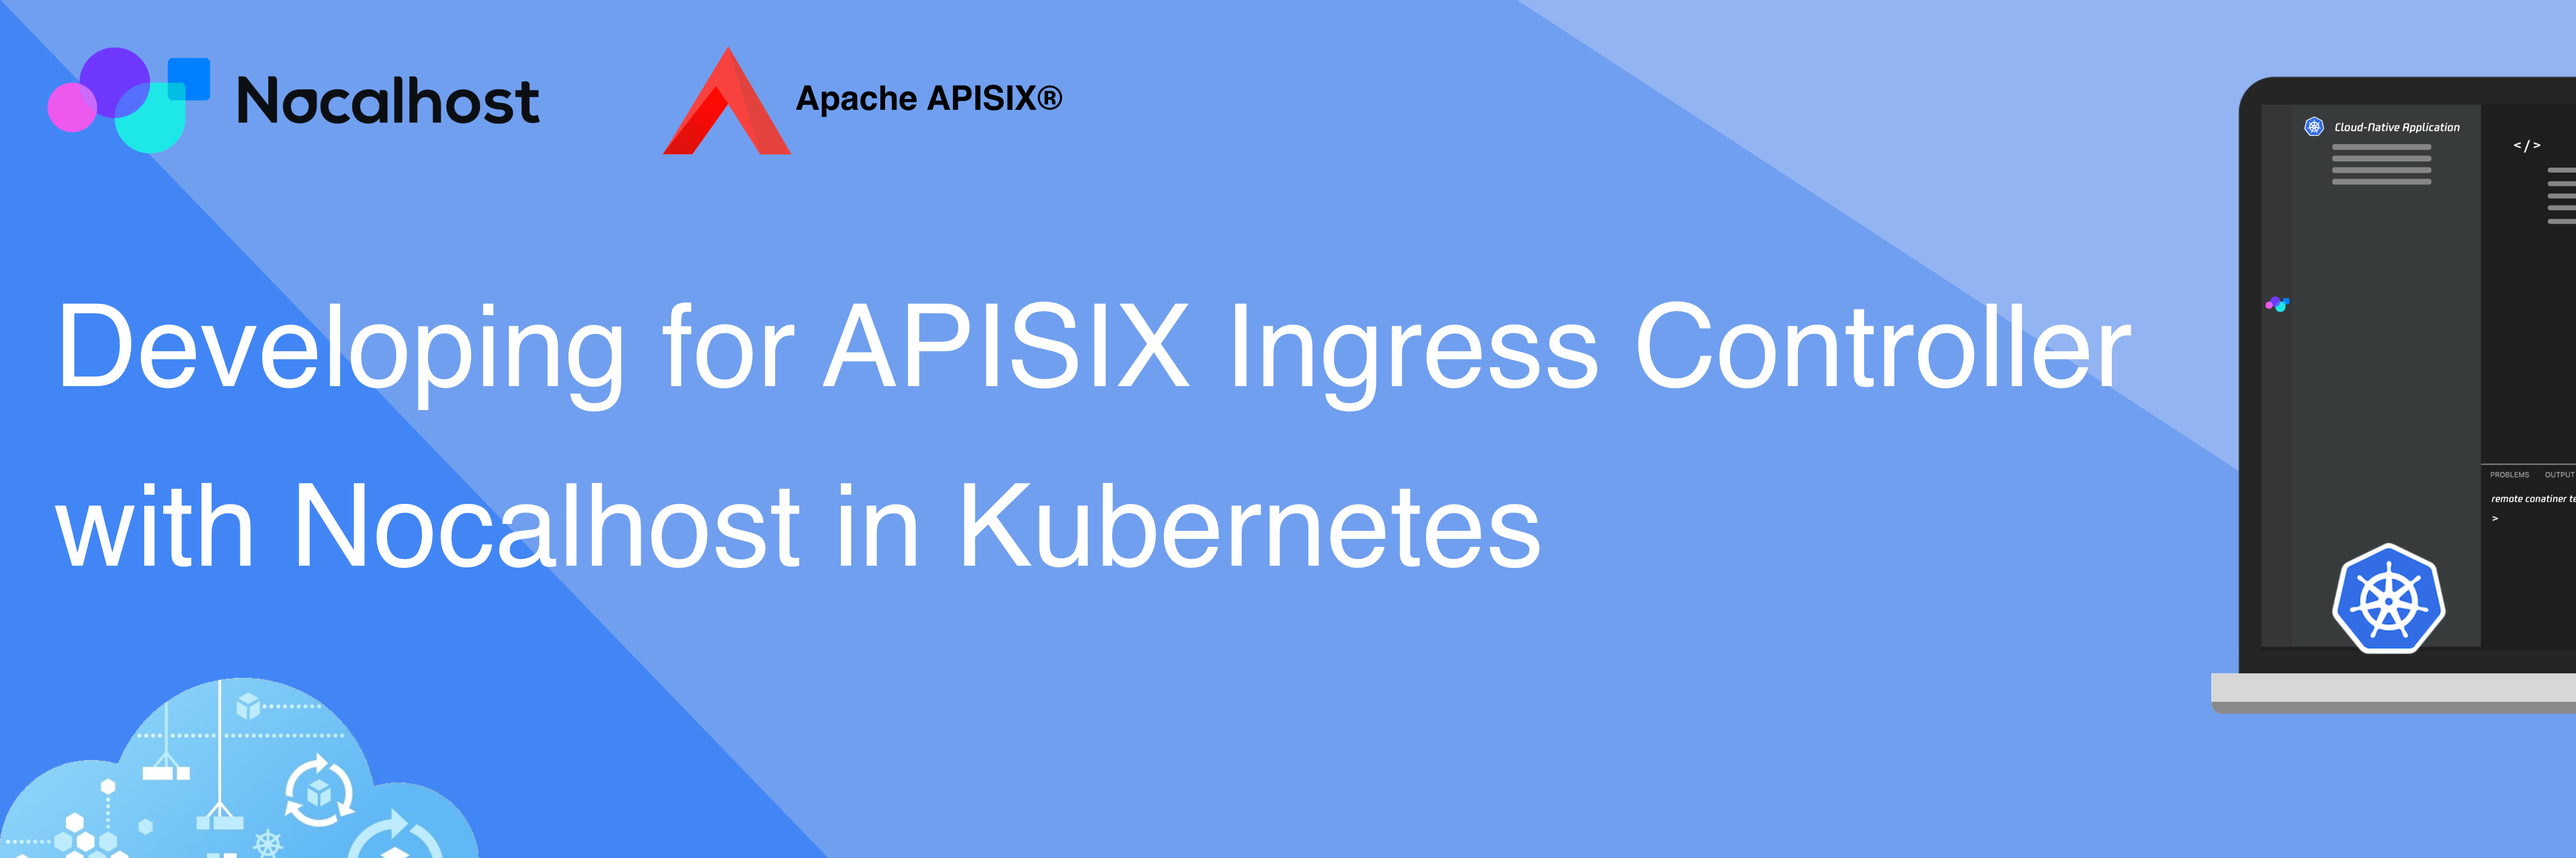
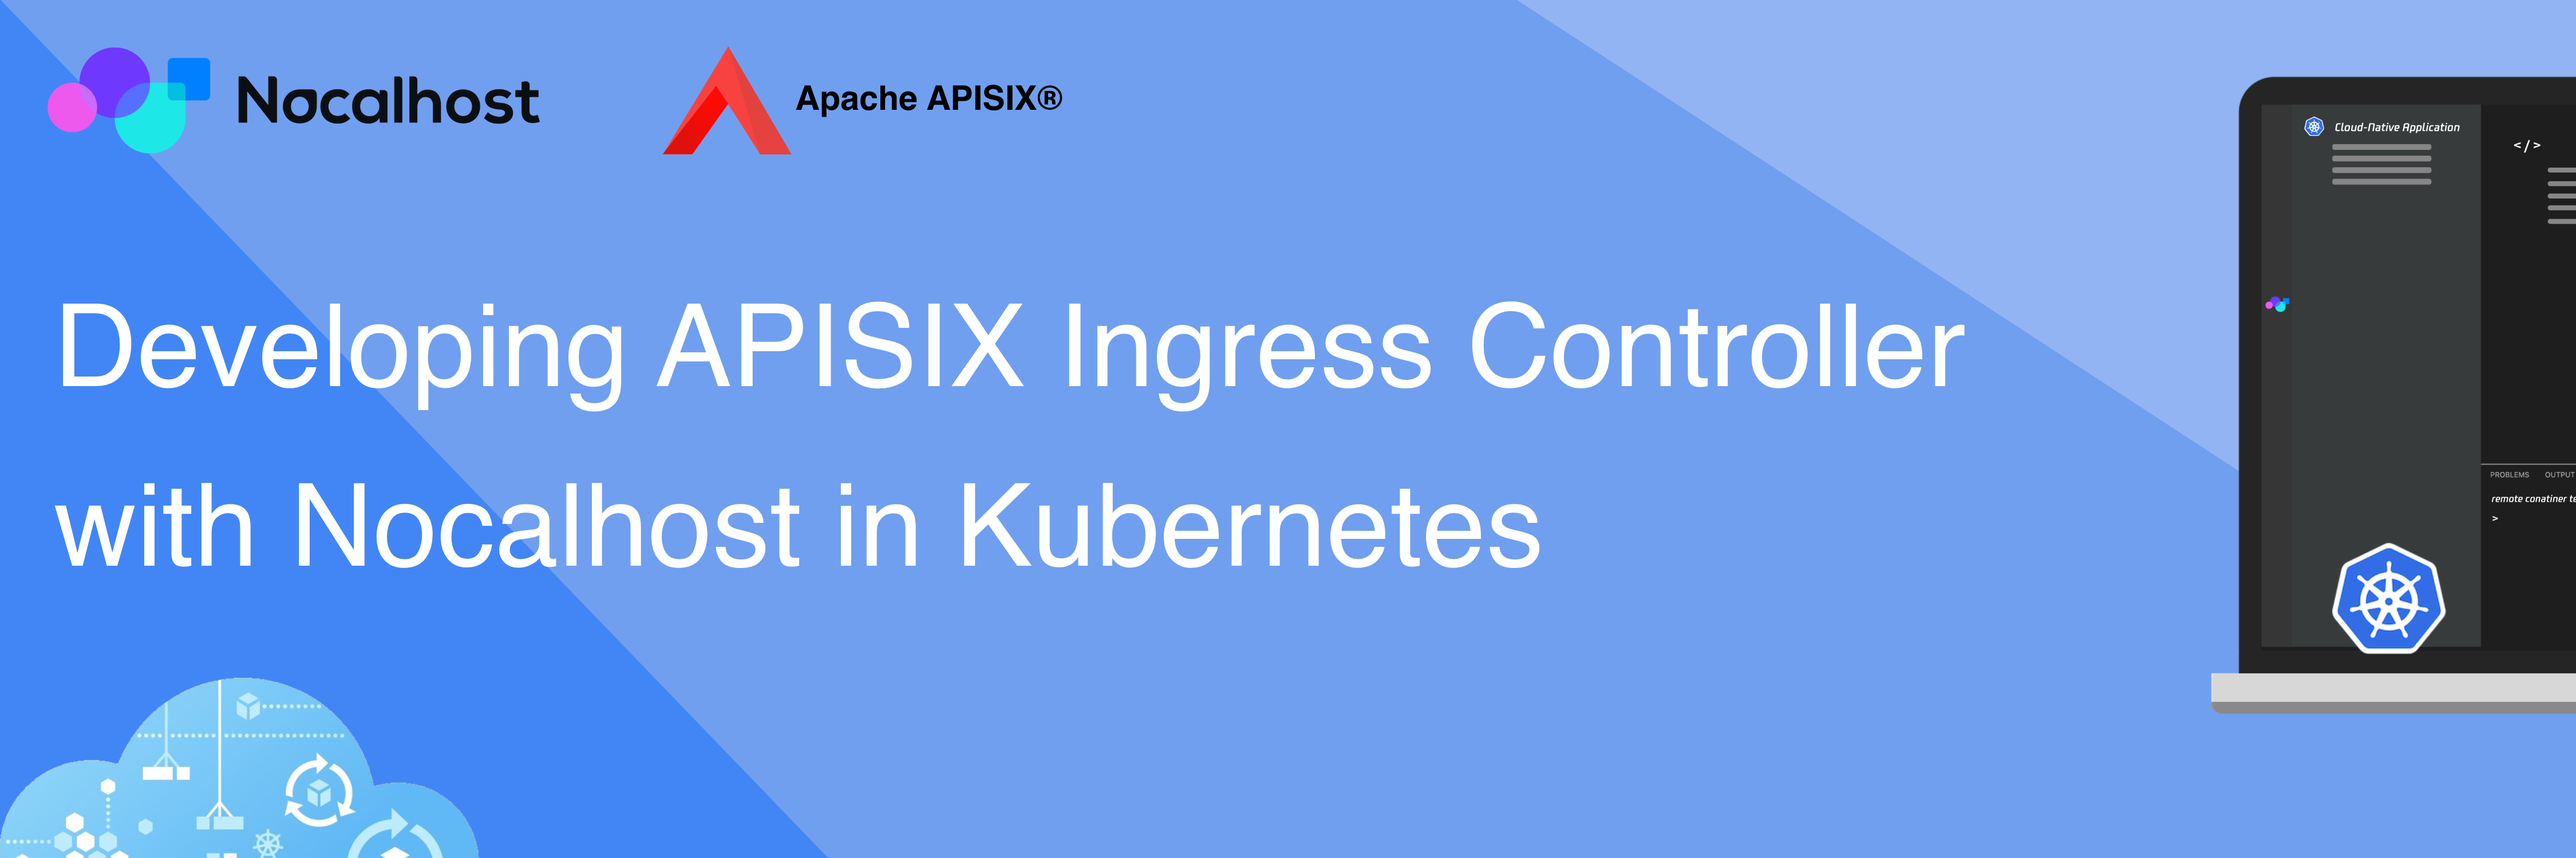
docs update

Changed region(s): [[0.2489, 0.3373, 0.84, 0.4907]]

diff --git a/blog/api-six.md b/blog/api-six.md
@@ -1,5 +1,5 @@
 ---
-title: Developing for APISIX Ingress Controller with Nocalhost in Kubernetes
+title: Developing APISIX Ingress Controller with Nocalhost in Kubernetes
 author: Garry Chen
 author_title: Product Manager at Nocalhost Team
 author_url: https://github.com/neaped
